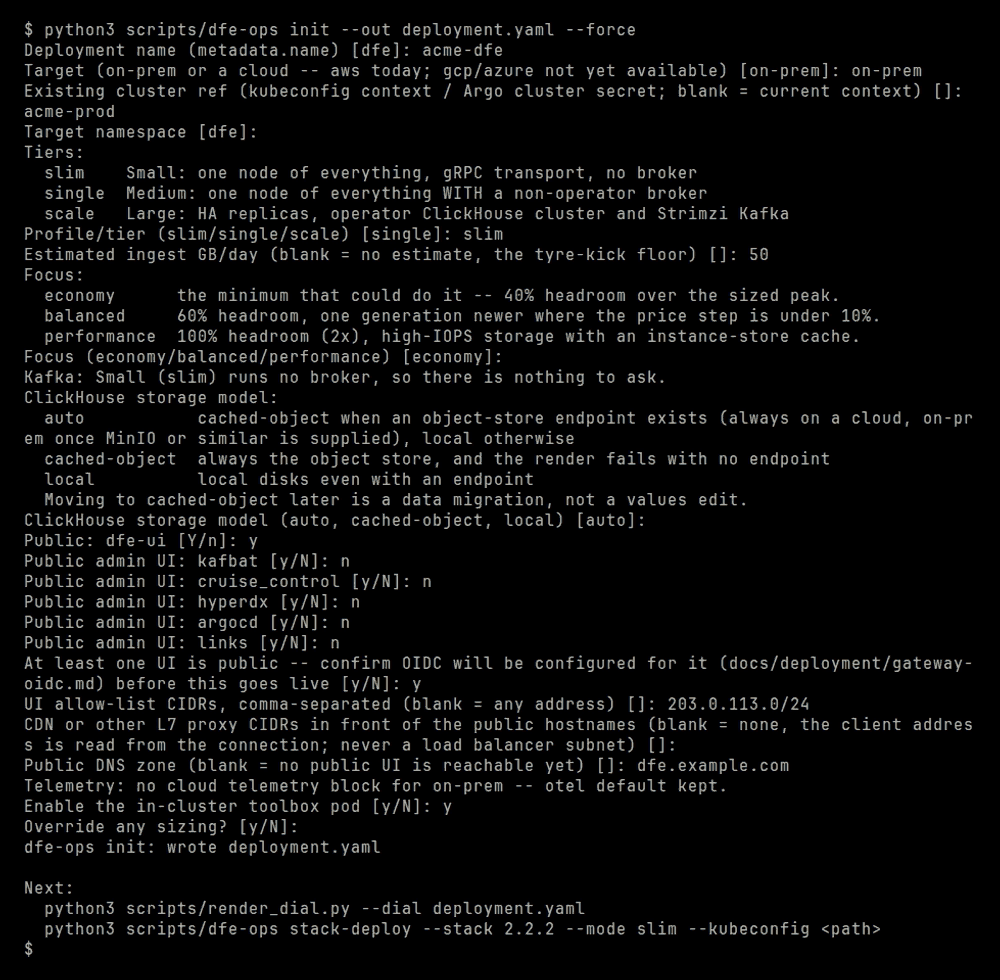
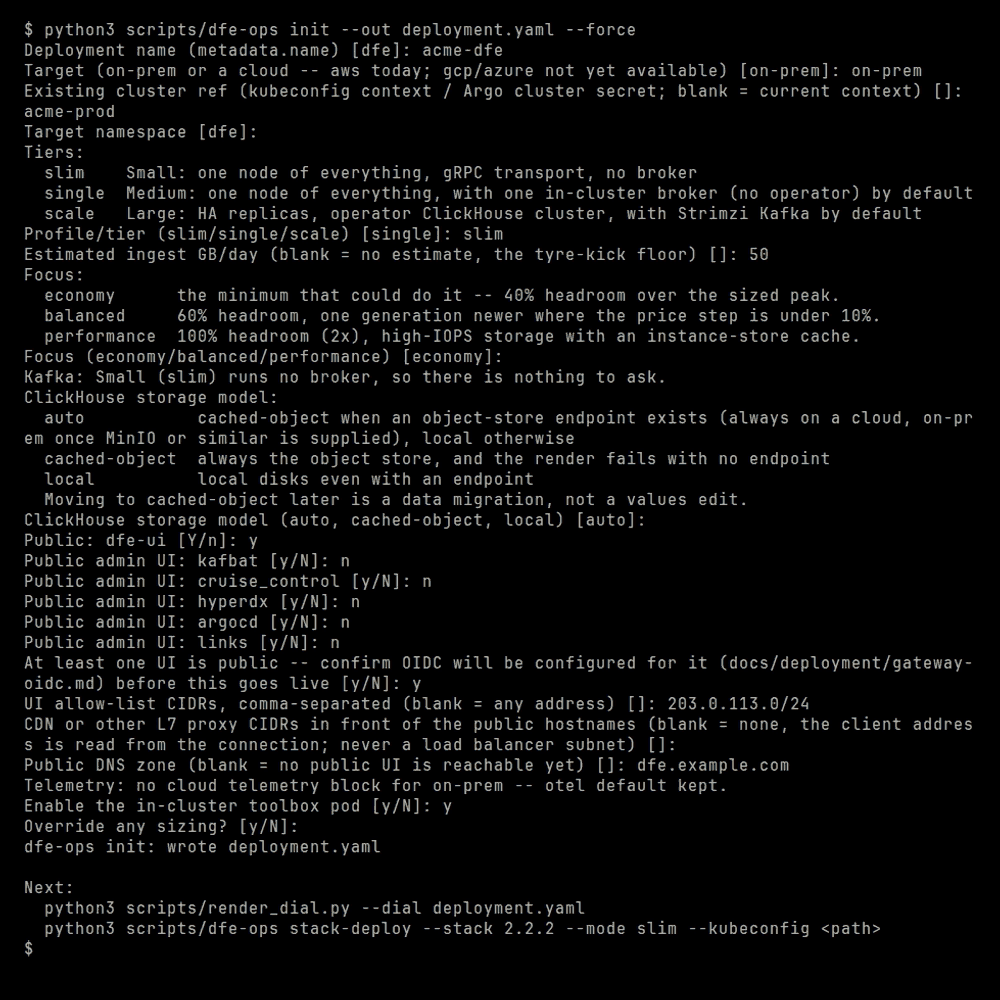
fix(init): show each tier's default broker
The old tier list said Medium runs a broker with no operator. It said Large runs Strimzi Kafka. On AWS the default dial builds Amazon MSK for Medium. It builds Confluent Cloud for Large.

For the chosen target, each tier with a broker shows what its default dial builds.

Done when a test checks that each broker name matches the default provider.

Changed region(s): [[0.0, 0.0306, 0.961, 0.9796], [0.0, 0.949, 0.031, 0.9796]]

diff --git a/scripts/dfe_ops_init.py b/scripts/dfe_ops_init.py
@@ -90,6 +90,28 @@ NOT_YET_AVAILABLE = ("gcp", "azure")
 TIER_CHOICES = ("slim", "single", "scale")
 TIER_LABELS = {"slim": "Small", "single": "Medium", "scale": "Large"}
 
+# The broker each tier's default Kafka provider builds, by target, for the tier list.
+DEFAULT_BROKER_TEXT = {
+    ("on-prem", "single"): "one in-cluster broker (no operator)",
+    ("on-prem", "scale"): "Strimzi Kafka",
+    ("aws", "single"): "Amazon MSK",
+    ("aws", "scale"): "Confluent Cloud",
+}
+# The brokered tiers without their broker, which profiles.py names for on-prem alone.
+TIER_SHAPE = {
+    "single": "one node of everything",
+    "scale": "HA replicas, operator ClickHouse cluster",
+}
+
+
+def _tier_line(target: str, tier: str) -> str:
+    """One tier as the list shows it, naming the broker its default dial builds on `target`."""
+    broker = DEFAULT_BROKER_TEXT.get((target, tier))
+    if broker is None:
+        return profiles.PROFILES[tier].description
+    return f"{TIER_SHAPE[tier]}, with {broker} by default"
+
+
 # sizing.yaml's own focus.<level>.headroom values (2026-09-13): 0.40/0.60/1.00.
 FOCUS_HELP = {
     "economy": "the minimum that could do it -- 40% headroom over the sized peak.",
@@ -349,7 +371,7 @@ def step_target(io: WizardIO, a: Answers) -> None:
 def step_tier(io: WizardIO, a: Answers) -> None:
     io.write("Tiers:")
     for t in TIER_CHOICES:
-        io.write(f"  {t:<7} {TIER_LABELS[t]}: {profiles.PROFILES[t].description}")
+        io.write(f"  {t:<7} {TIER_LABELS[t]}: {_tier_line(a.target, t)}")
     a.profile = ask_choice(io, "profile", "Profile/tier", a.profile, TIER_CHOICES)
 
     def validate_ingest(raw: str) -> str:

diff --git a/scripts/tests/test_dfe_ops_init.py b/scripts/tests/test_dfe_ops_init.py
@@ -453,6 +453,21 @@ def test_a_yes_no_prompt_shows_its_default_once() -> None:
     assert prompts == ["Enable the in-cluster toolbox pod [y/N]: "]
 
 
+@pytest.mark.parametrize(("target", "tier"), sorted(wiz.DEFAULT_BROKER_TEXT))
+def test_the_tier_list_names_the_broker_the_default_dial_builds(
+    target: str, tier: str
+) -> None:
+    """AWS Medium defaults to MSK, so a tier line promising an in-cluster broker misleads."""
+    provider = wiz._default_kafka_provider(target, tier)
+    named = {"msk": "Amazon MSK", "confluent-cloud": "Confluent Cloud"}.get(provider)
+    line = wiz._tier_line(target, tier)
+    if named:
+        assert named in line
+    else:
+        assert "MSK" not in line
+        assert "Confluent" not in line
+
+
 def test_az_count_uses_render_dial_validator() -> None:
     io = wiz.WizardIO(answers={"az_count": "7"})  # render_dial._az_count caps at 6
     answers = wiz.Answers(target="aws")
